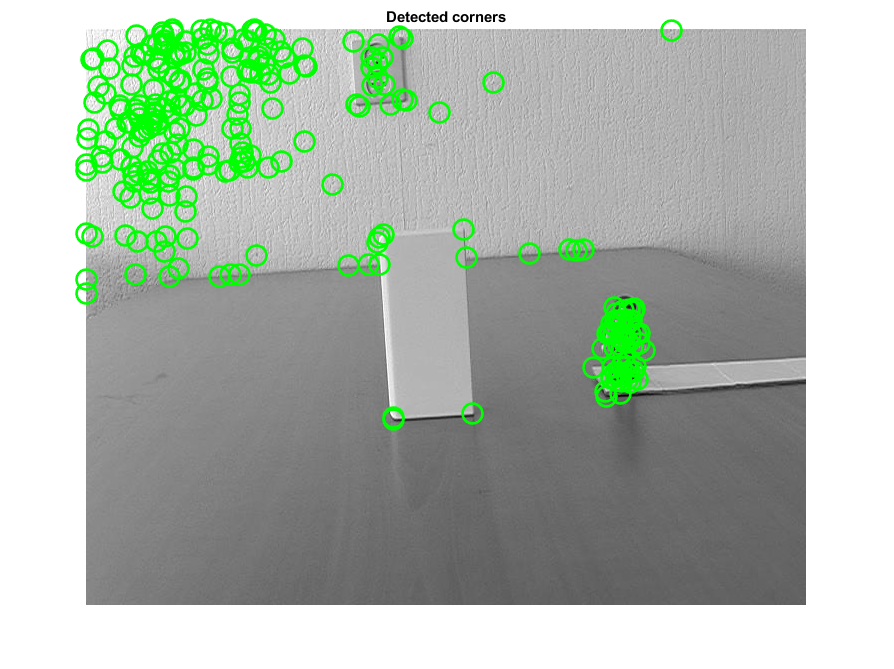
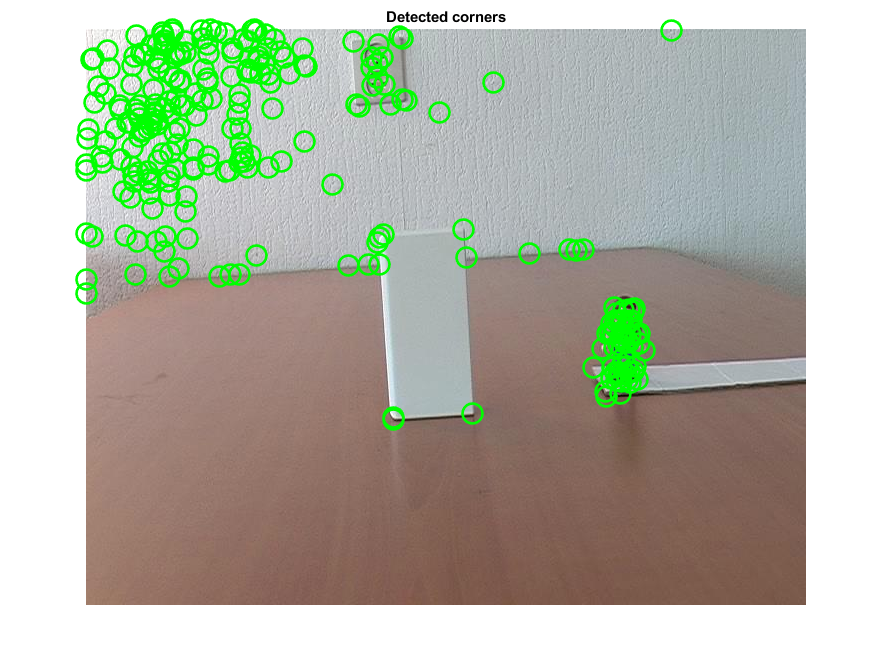
harris corner output

diff --git a/harris_corner_detector.m b/harris_corner_detector.m
@@ -7,7 +7,6 @@ function [ H, r, c ] = harris_corner_detector(image, window_size, threshold)
 %   treshold    The treshold for local maxima to be determined as corner;
 %               a value between 0 and 1 (default: 0.03).
 
-clc % clear command window
 close ALL % close all figures
 
 % Default parameters
@@ -19,6 +18,7 @@ elseif nargin == 2
 end
       
 [ h, w, channels ] = size(image);   % Get the image size
+image_rgb = image;
 if channels == 3
     image = rgb2gray(image);        % Convert to grayscale
 end
@@ -46,7 +46,7 @@ local_maxima(indices) = 0;          % Set to zero
                                     % Plot derivates and detected corners
 figure, imshow(Gx), title('Derivative of image in x-direction')
 figure, imshow(Gy), title('Derivative of image in y-direction')
-figure, imshow(image), title('Detected corners')
+figure, imshow(image_rgb), title('Detected corners')
 hold on;
 plot(c, r, 'go', 'LineWidth', 2, 'MarkerSize', 15);
 
